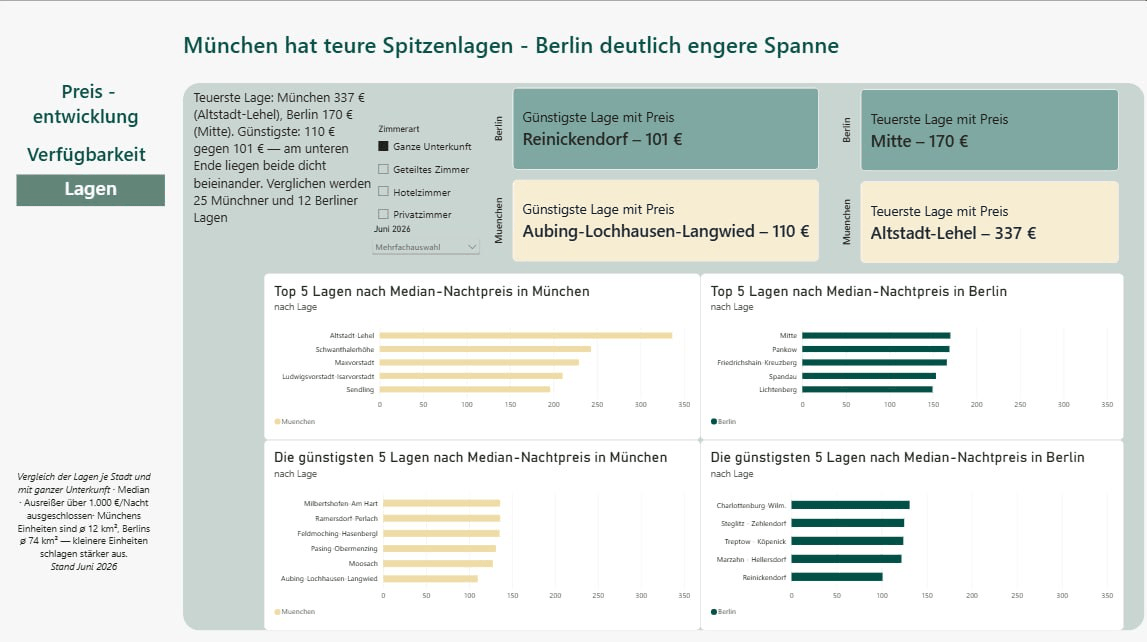
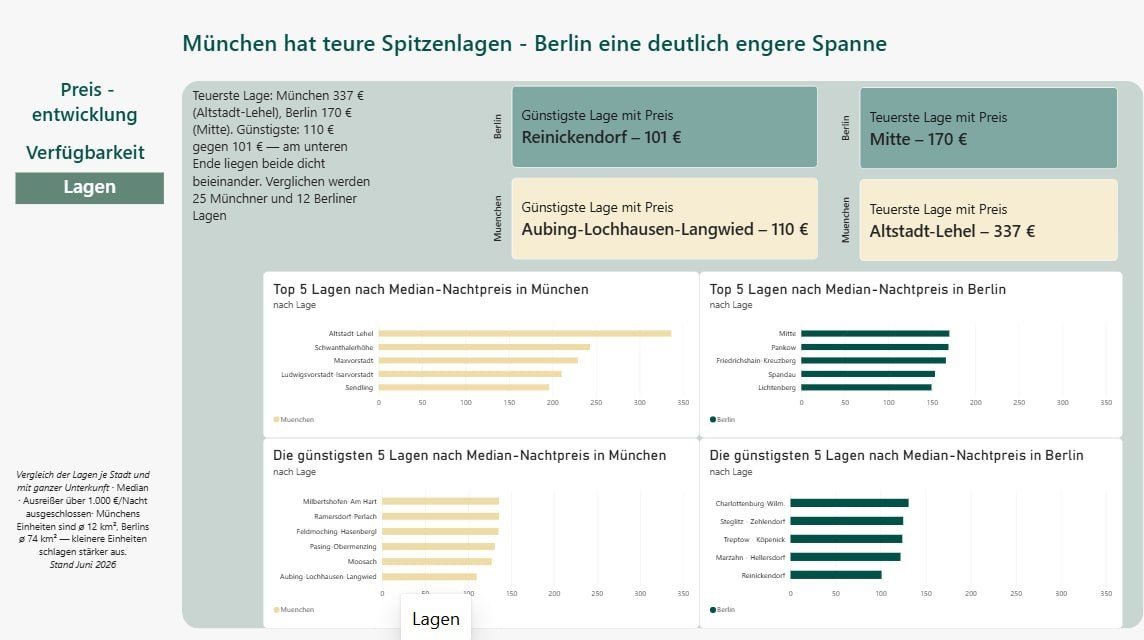
docs: Screenshots Seite 2 und 3 auf Juni-Stand, ohne Datenslicer
- powerbi_verfuegbarkeit.png und powerbi_lagen.png ersetzt (Navigation
  zeigt jetzt 'Lagen' statt 'Bezirke', kein sichtbarer Datenslicer)
- README Seite 3: veraltete Aussage 'Slicer auf letzten Stand' korrigiert
  -> Seite ist fest auf Juni 2026 gestellt
- Cache-Parameter hochgesetzt (?v=3 bzw. ?v=2), damit GitHub die neuen
  Bilder laedt statt der alten

diff --git a/README.md b/README.md
@@ -259,16 +259,16 @@ streut breit nach unten (viele Bezirke unter 130 freie Tage) und hat zugleich
 die teureren Bezirke. Verfügbarkeit ist host-gesteuert — hohe Werte heißen
 „viel angeboten", nicht „wenig gebucht".
 
-![Seite 2 des Power-BI-Berichts: Verfügbarkeit Berlin und München](docs/powerbi_verfuegbarkeit.png?v=2)
+![Seite 2 des Power-BI-Berichts: Verfügbarkeit Berlin und München](docs/powerbi_verfuegbarkeit.png?v=3)
 
 **Seite 3 „Lagen"** — Lagevergleich, Median je Lage, **Stand Juni 2026**:
 Die Seite hieß früher „Bezirke" und heißt jetzt „Lagen", weil die Einheiten
 nicht äquivalent sind: Berlin hat 12 Bezirke (ø 74 km²), München 25 Stadtbezirke
 (ø 12 km²). „Bezirke" verspricht eine Vergleichbarkeit, die es so nicht gibt;
-„Lage" sagt nur *wo*, ohne Gleichheit zu behaupten. Der `snapshot_date`-Slicer
-ist auf den letzten Stand gesetzt, damit die Seite nicht über alle Jahre poolt
-(siehe unten, warum das entscheidend ist), die Zimmerart steht auf **Ganze
-Unterkunft**.
+„Lage" sagt nur *wo*, ohne Gleichheit zu behaupten. Die Seite ist fest auf
+**Juni 2026** gestellt, damit sie nicht über alle Jahre poolt (siehe unten, warum
+das entscheidend ist); einen sichtbaren Datenslicer gibt es auf dieser Seite
+nicht. Die Zimmerart steht auf **Ganze Unterkunft**.
 
 Die vier Kacheln nennen die Extremwerte: günstigste Lage Berlin **Reinickendorf
 mit 101 €**, teuerste **Mitte mit 170 €**; in München liegt
@@ -306,7 +306,7 @@ Unterschied der Spannweiten (69 € in Berlin gegen 226,50 € in München) teil
 Artefakt der Einteilung — größere Einheiten mitteln stärker, Berlins 12 Bezirke
 sind im Schnitt sechsmal so groß wie Münchens 25 Stadtbezirke.
 
-![Seite 3 des Power-BI-Berichts: Lagevergleich Berlin und München](docs/powerbi_lagen.png?v=1)
+![Seite 3 des Power-BI-Berichts: Lagevergleich Berlin und München](docs/powerbi_lagen.png?v=2)
 
 ## Continuous Integration
 
